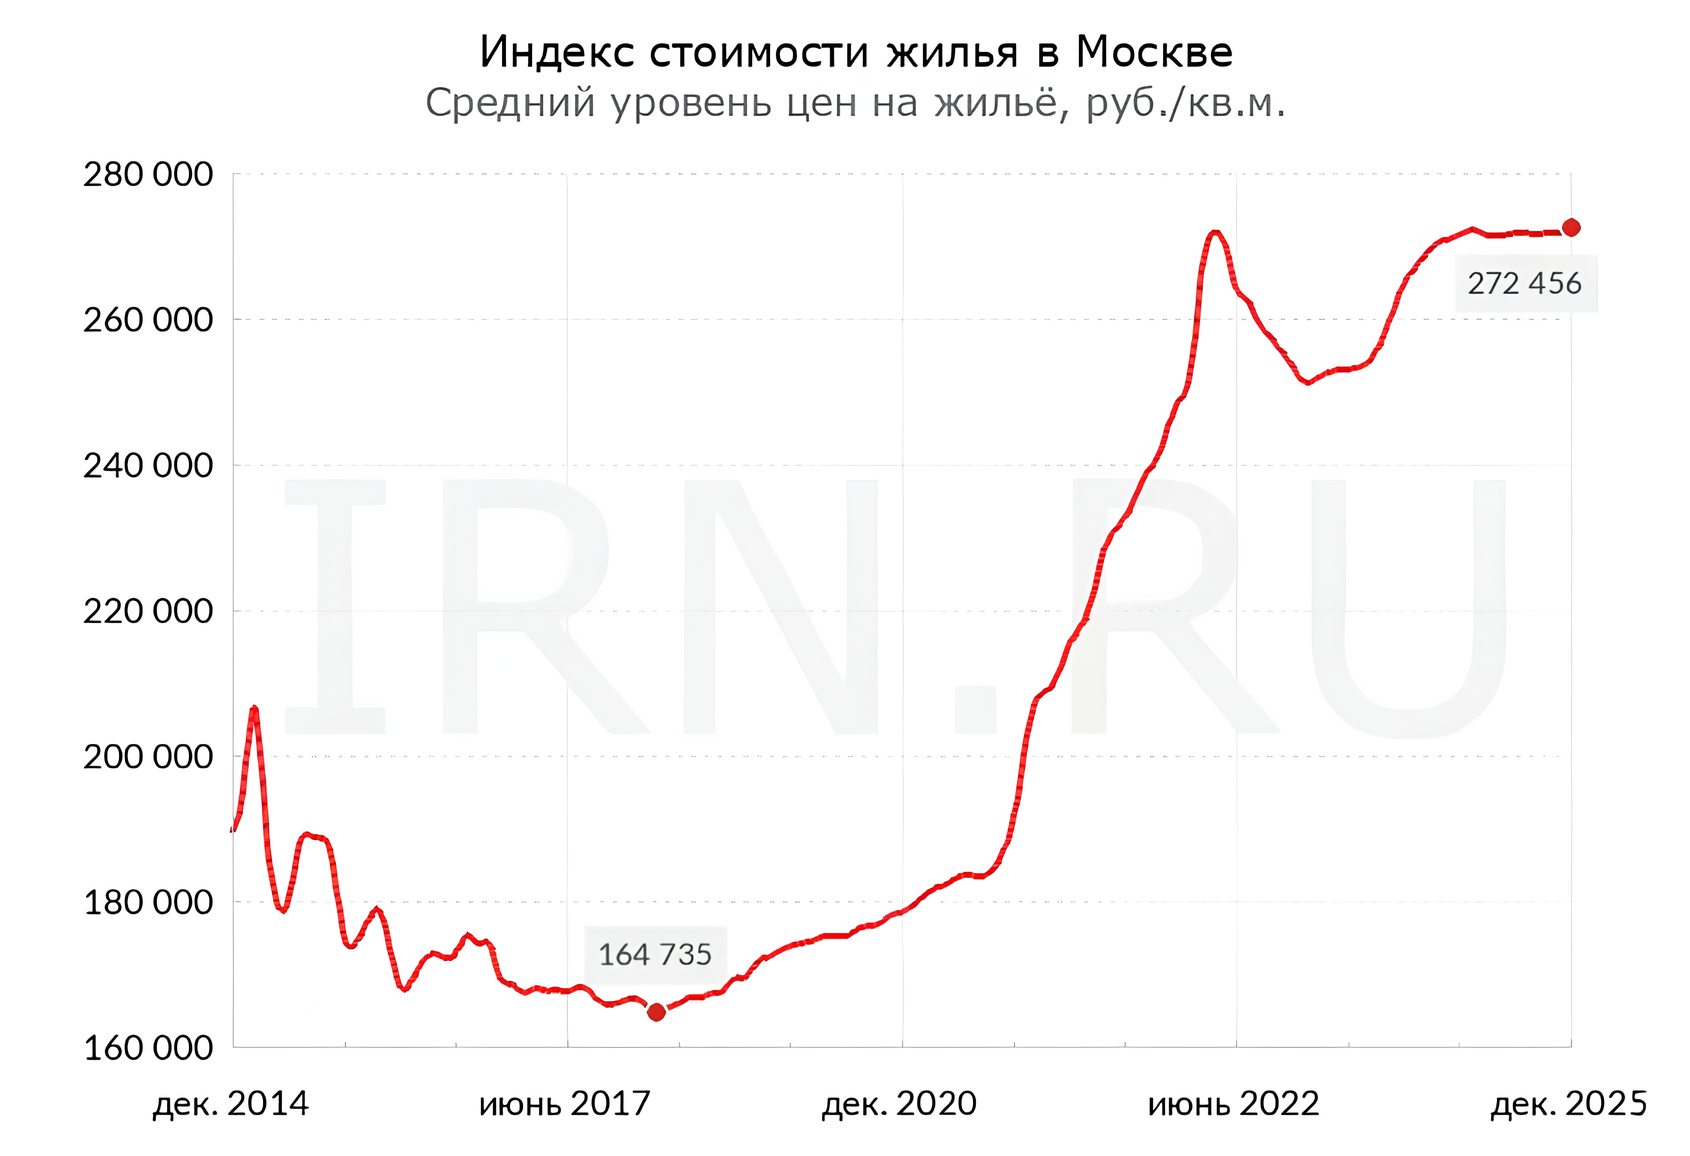
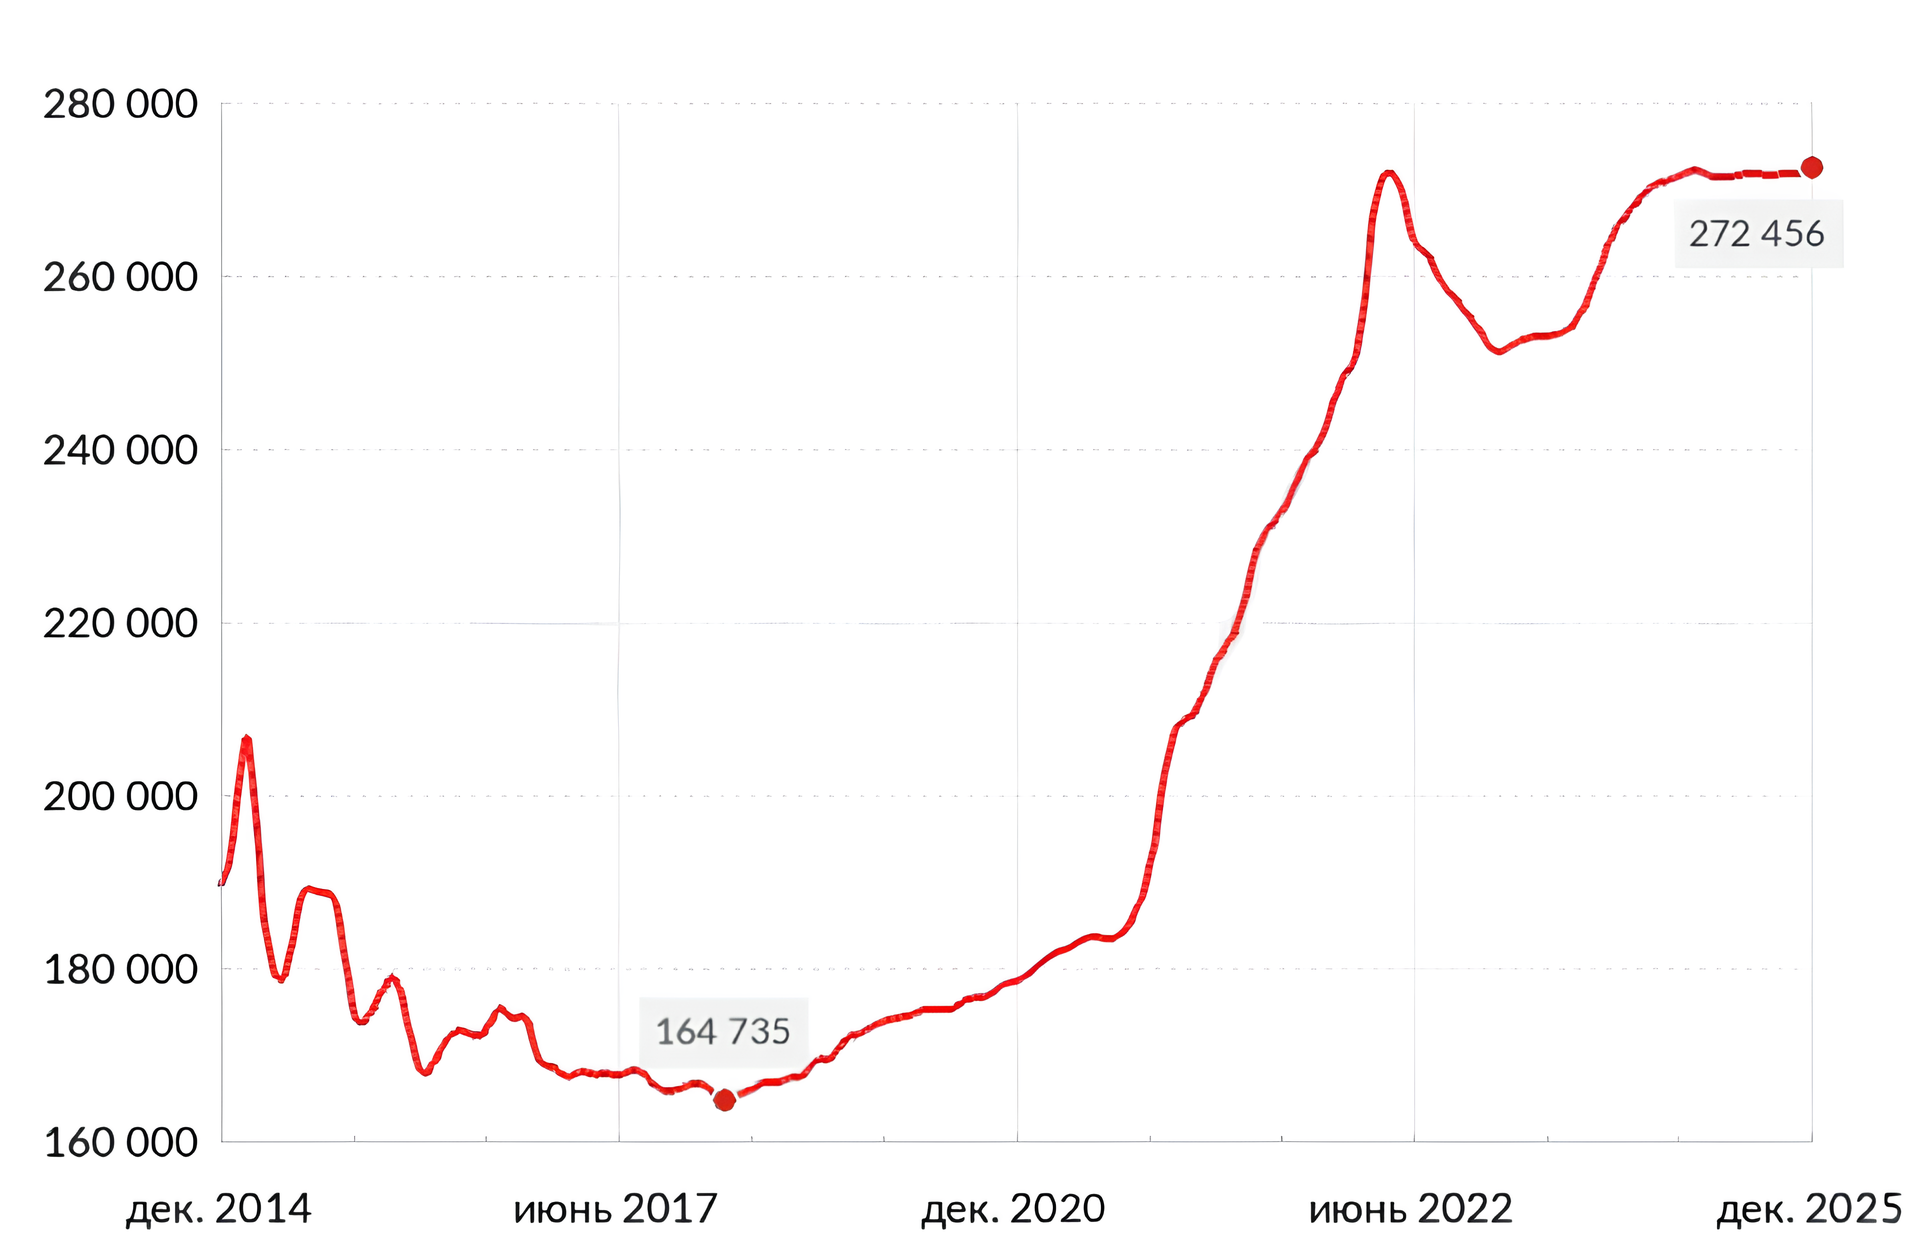
Refactor: statistics view (move text from image to html), redisign statistics image

diff --git a/src/components/WhyImportant.vue b/src/components/WhyImportant.vue
@@ -21,6 +21,8 @@
       <p class="note">Проверка данных помогает избежать этих проблем.</p>
     </div>
     <div class="visual-block">
+      <h2>Индекс стоимости недвижимости в Ставропольском крае</h2>
+      <h3>Средний уровень цен на недвижимость, руб/кв.м.</h3>
       <img class="statistics-img" alt="statistics" src="../assets/statistics.png">
     </div>
   </div>
@@ -54,7 +56,26 @@ h2 { font-size: 32px; margin-bottom: 40px; text-align: center; }
 .note { font-style: italic; color: var(--text-secondary); }
 
 .visual-block {
-  margin: 0 auto;
+  display: flex;
+  flex-direction: column;
+  gap: 0;
+  align-items: center;
+}
+
+.visual-block h2 {
+  font-size: 1.2rem;
+  font-weight: 600;
+}
+
+.visual-block h3 {
+  font-size: 1.1rem;
+  font-weight: 500;
+}
+
+.visual-block h2,
+.visual-block h3 {
+  margin: 0;
+  text-align: center;
 }
 
 .statistics-img {
